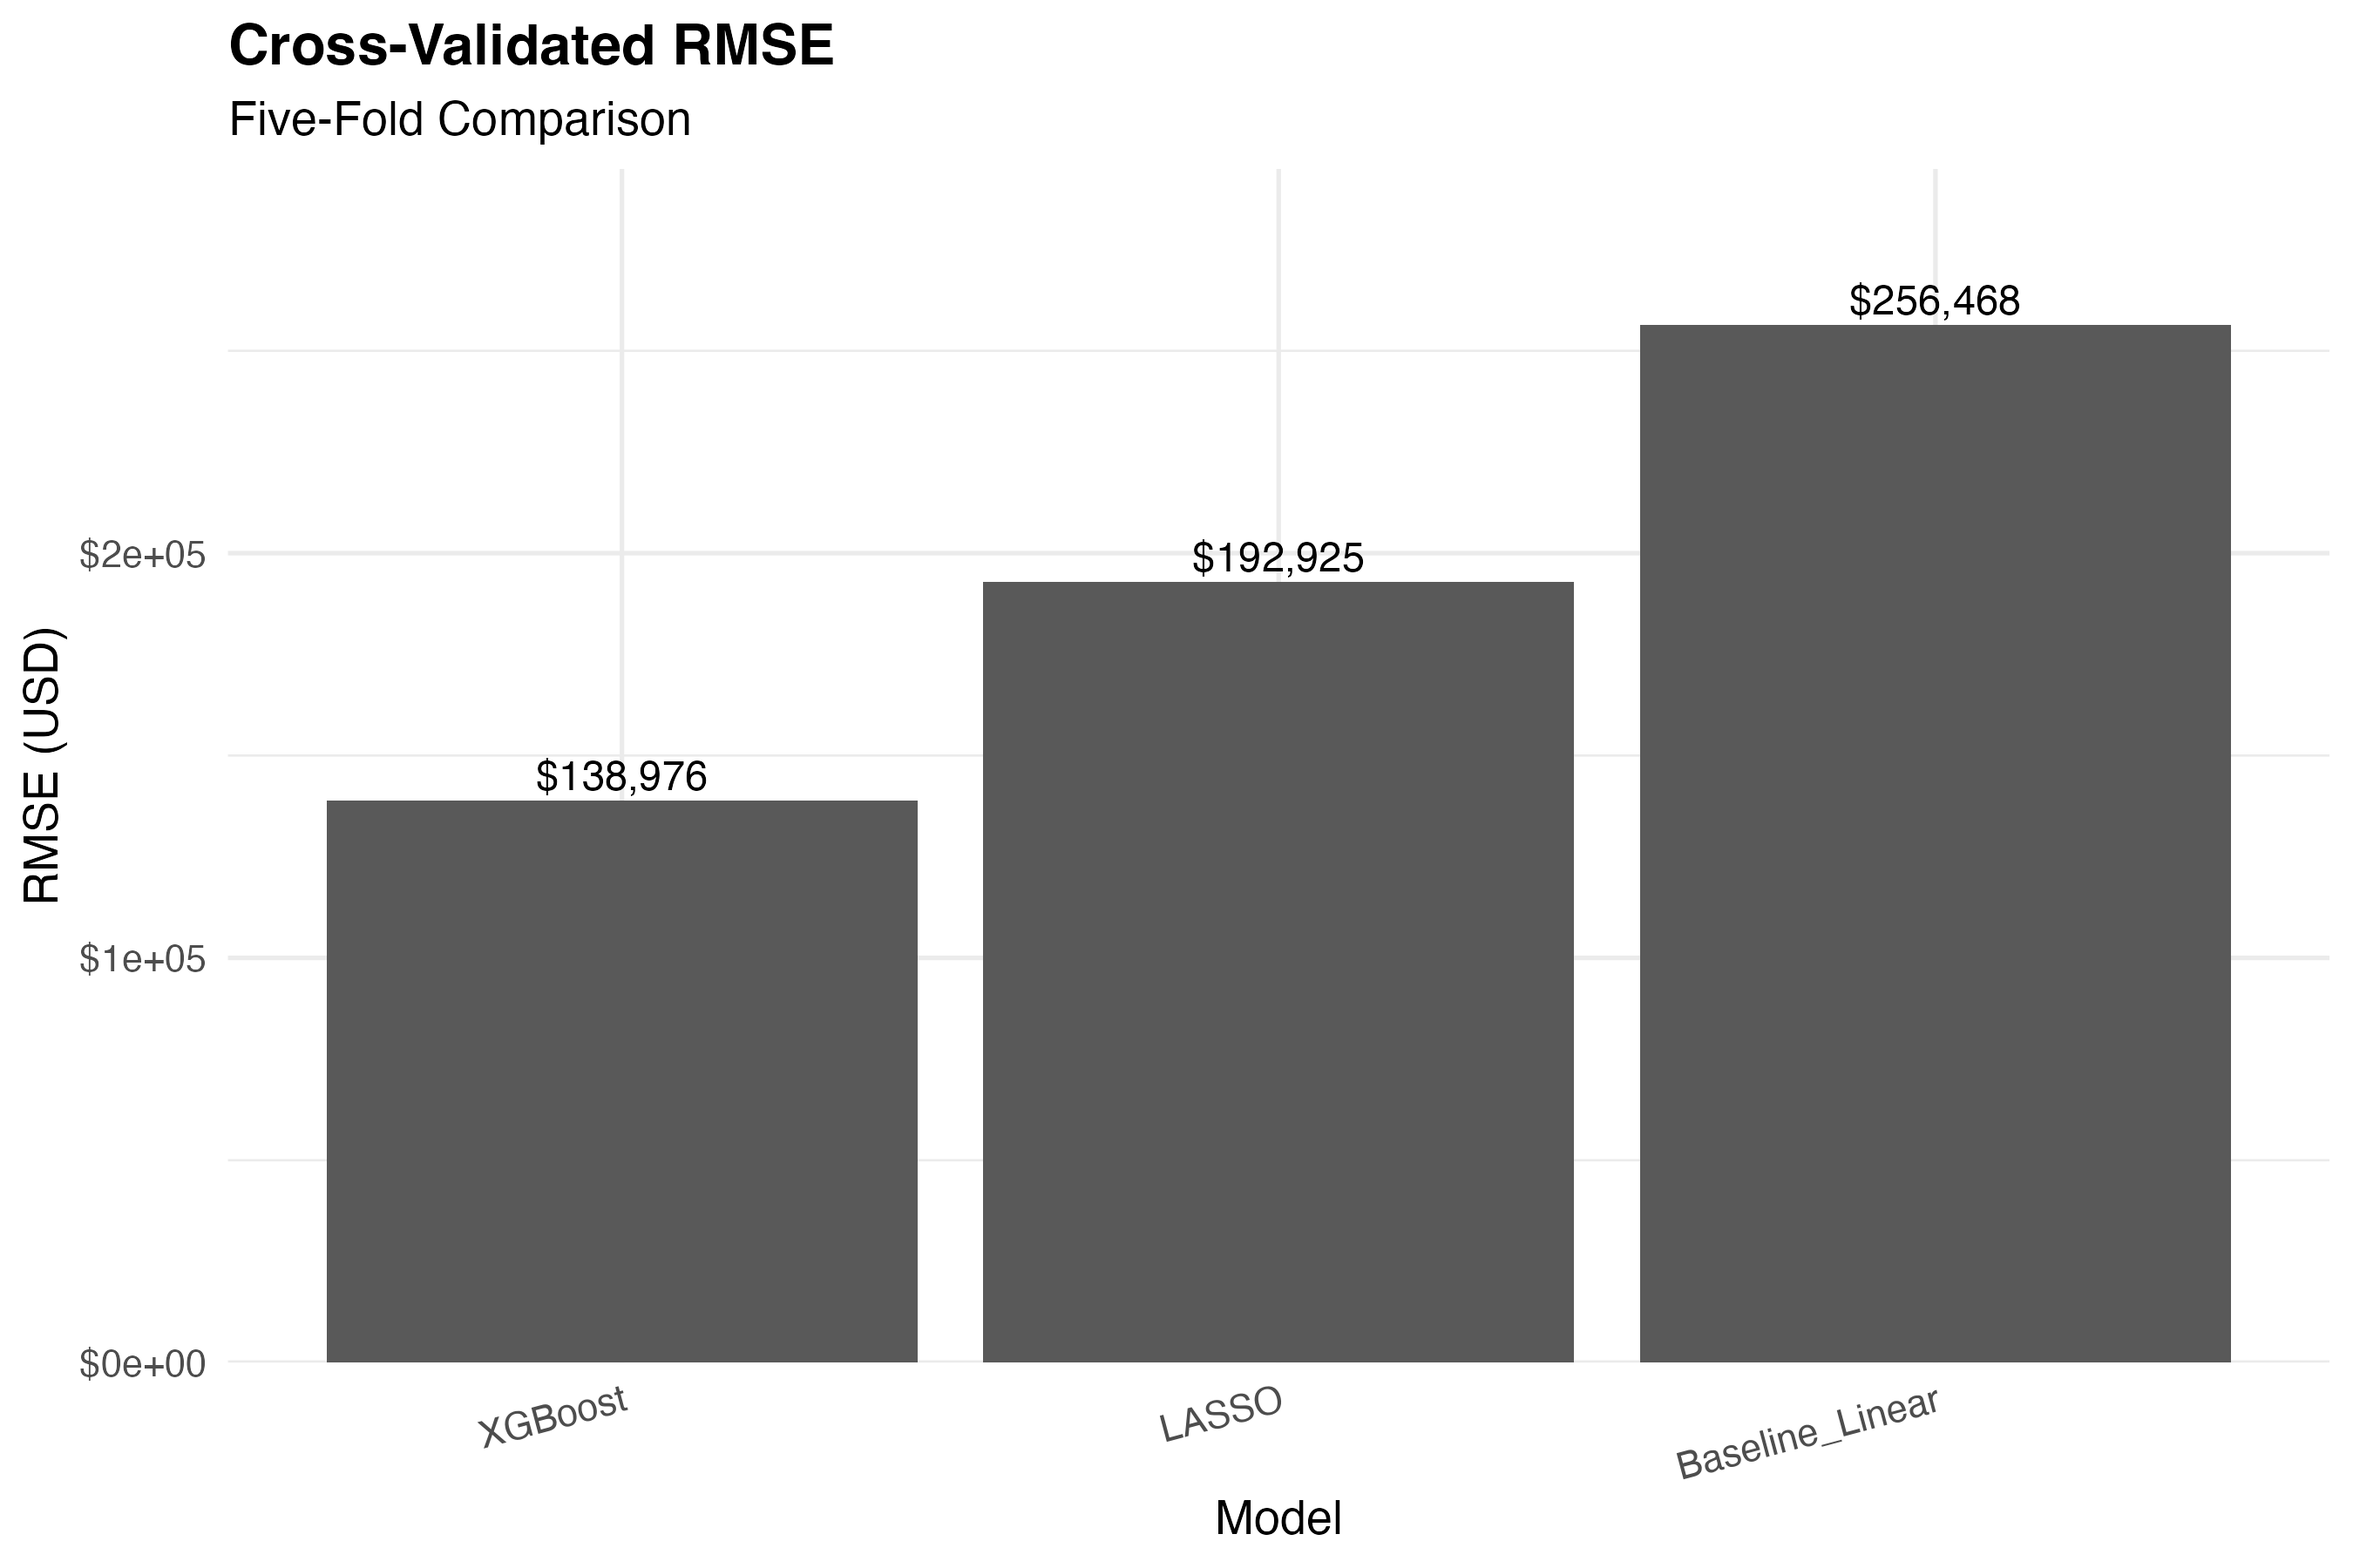
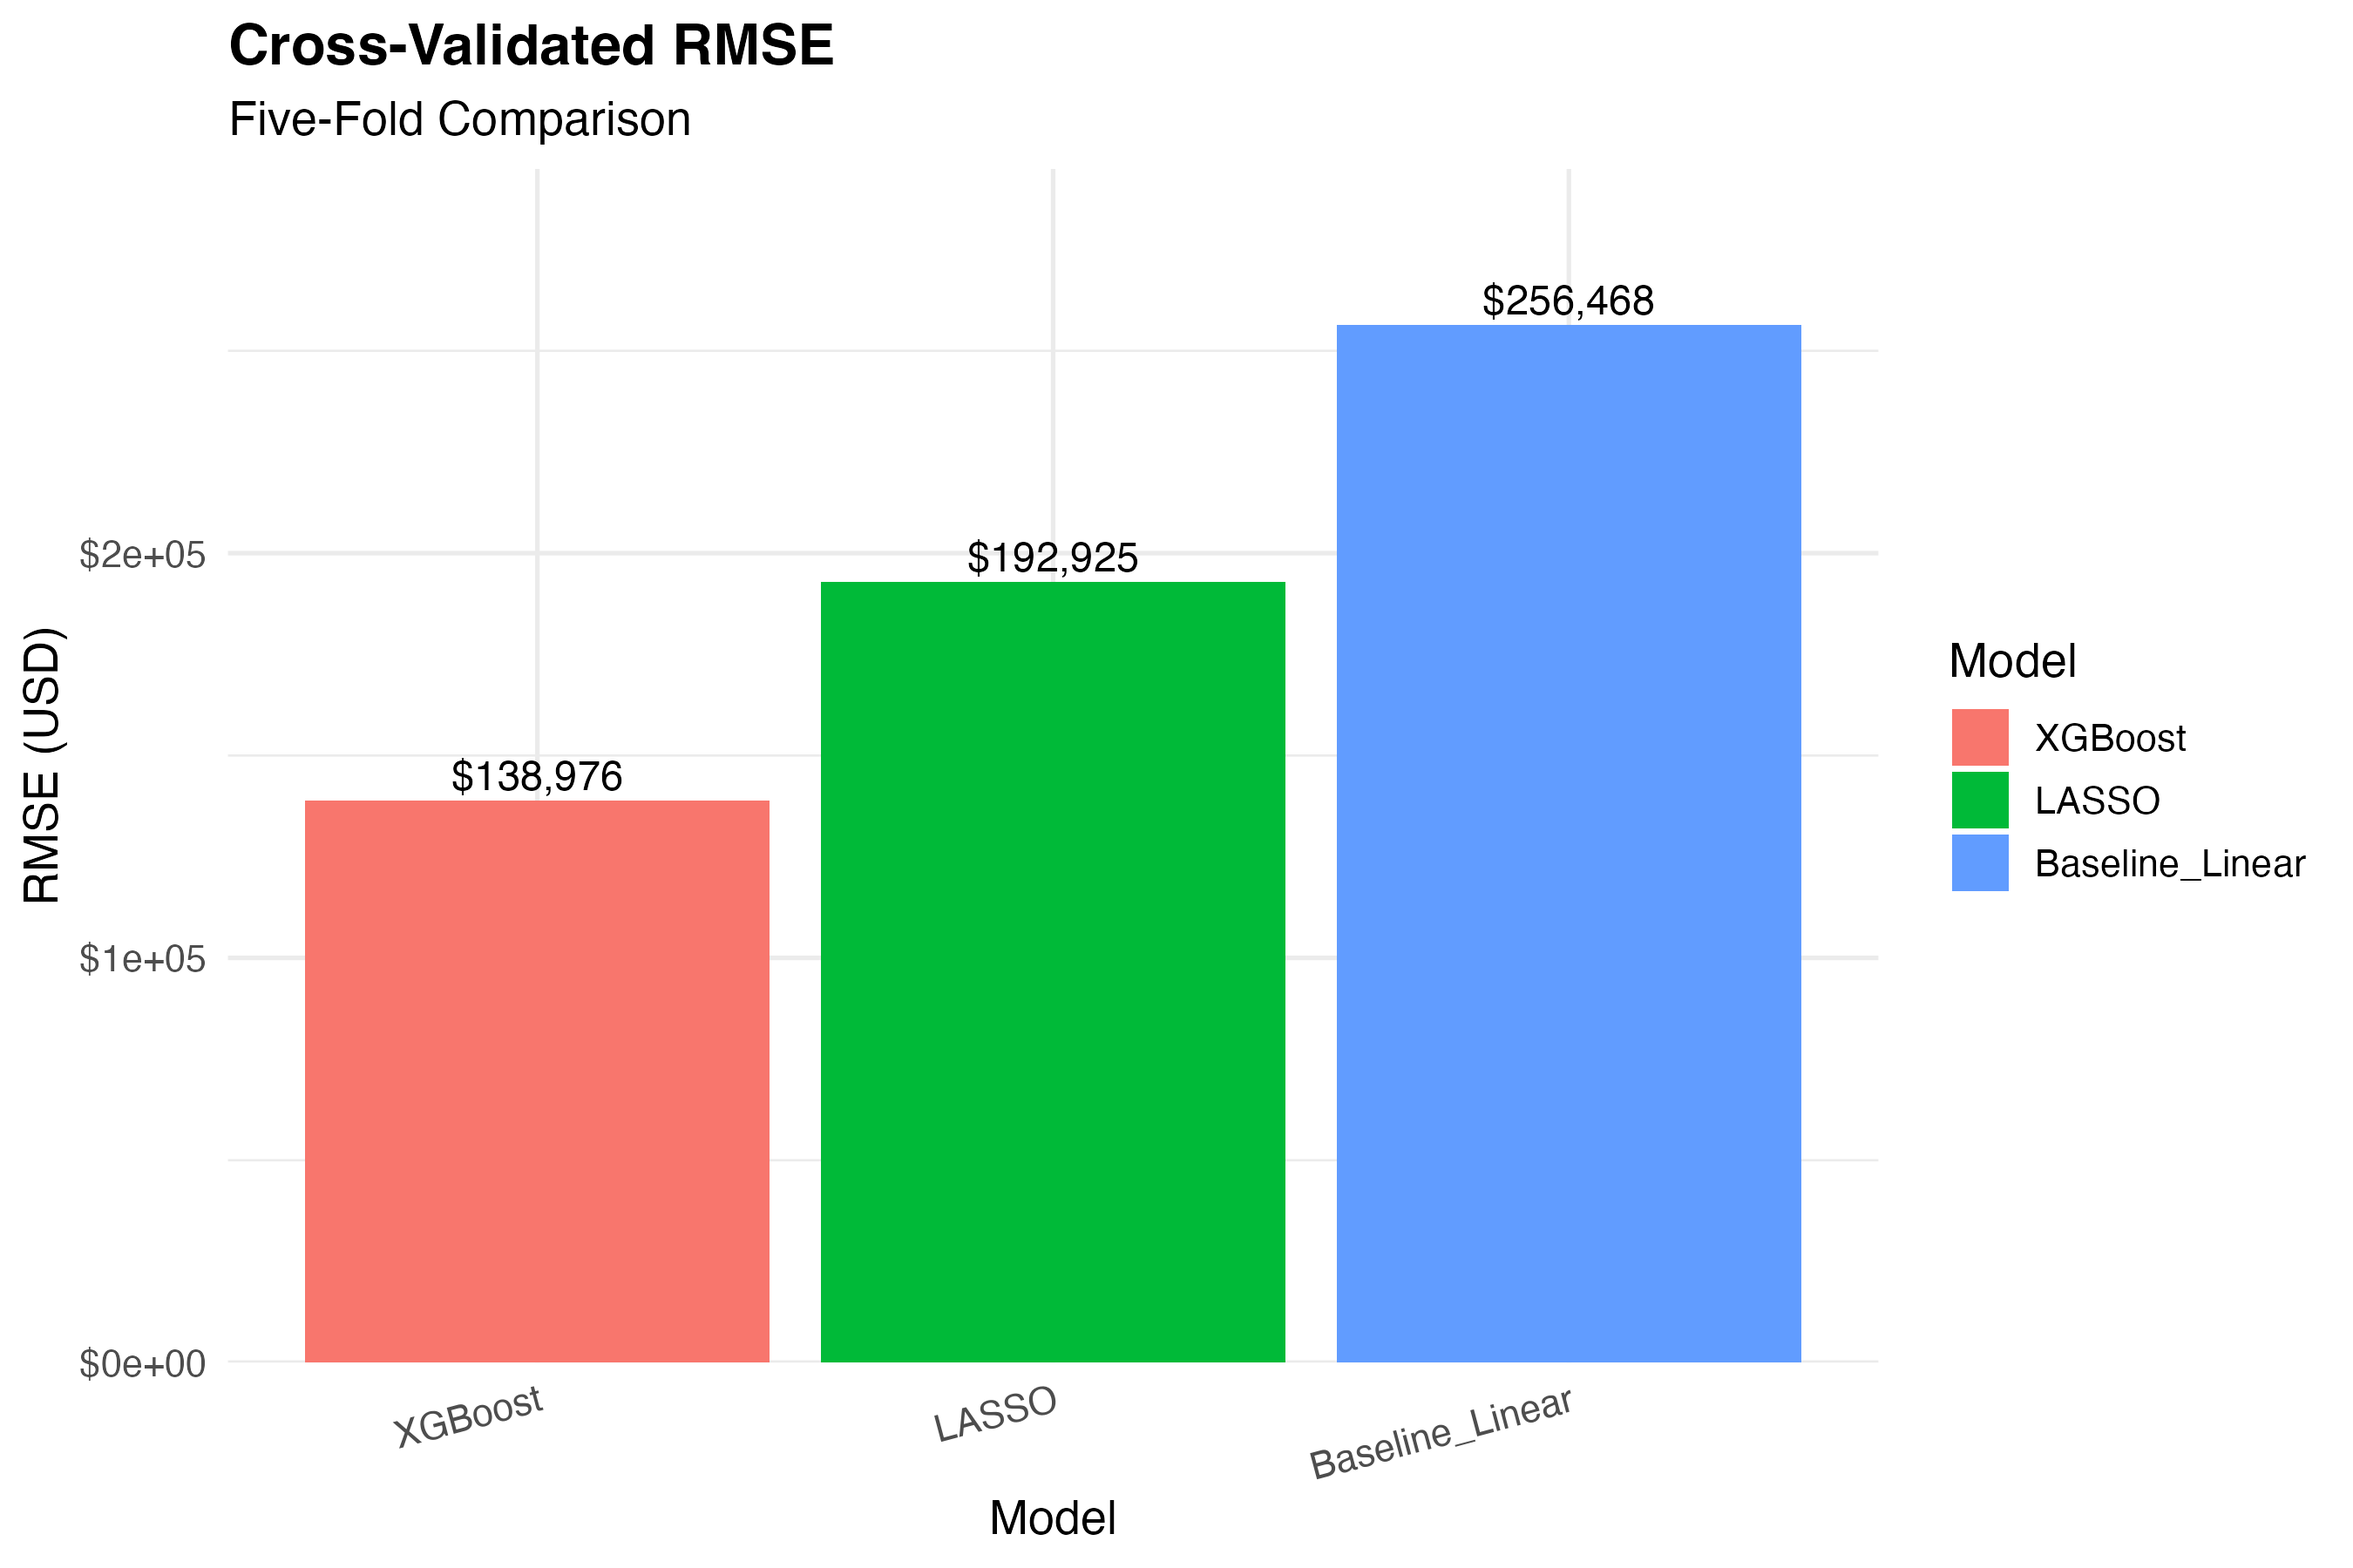
Updated output visuals

diff --git a/ML-Project.html b/ML-Project.html
@@ -708,7 +708,7 @@ plot_data &lt;- data.frame(
 )
 
 #Create Performance Plot File
-performance_plot &lt;- ggplot(plot_data, aes(x = Model, y = RMSE)) +
+performance_plot &lt;- ggplot(plot_data, aes(x = Model, y = RMSE, fill = Model)) +
   geom_col() +
   geom_text(
     aes(label = paste0(&quot;$&quot;, format(round(RMSE), big.mark = &quot;,&quot;))),
